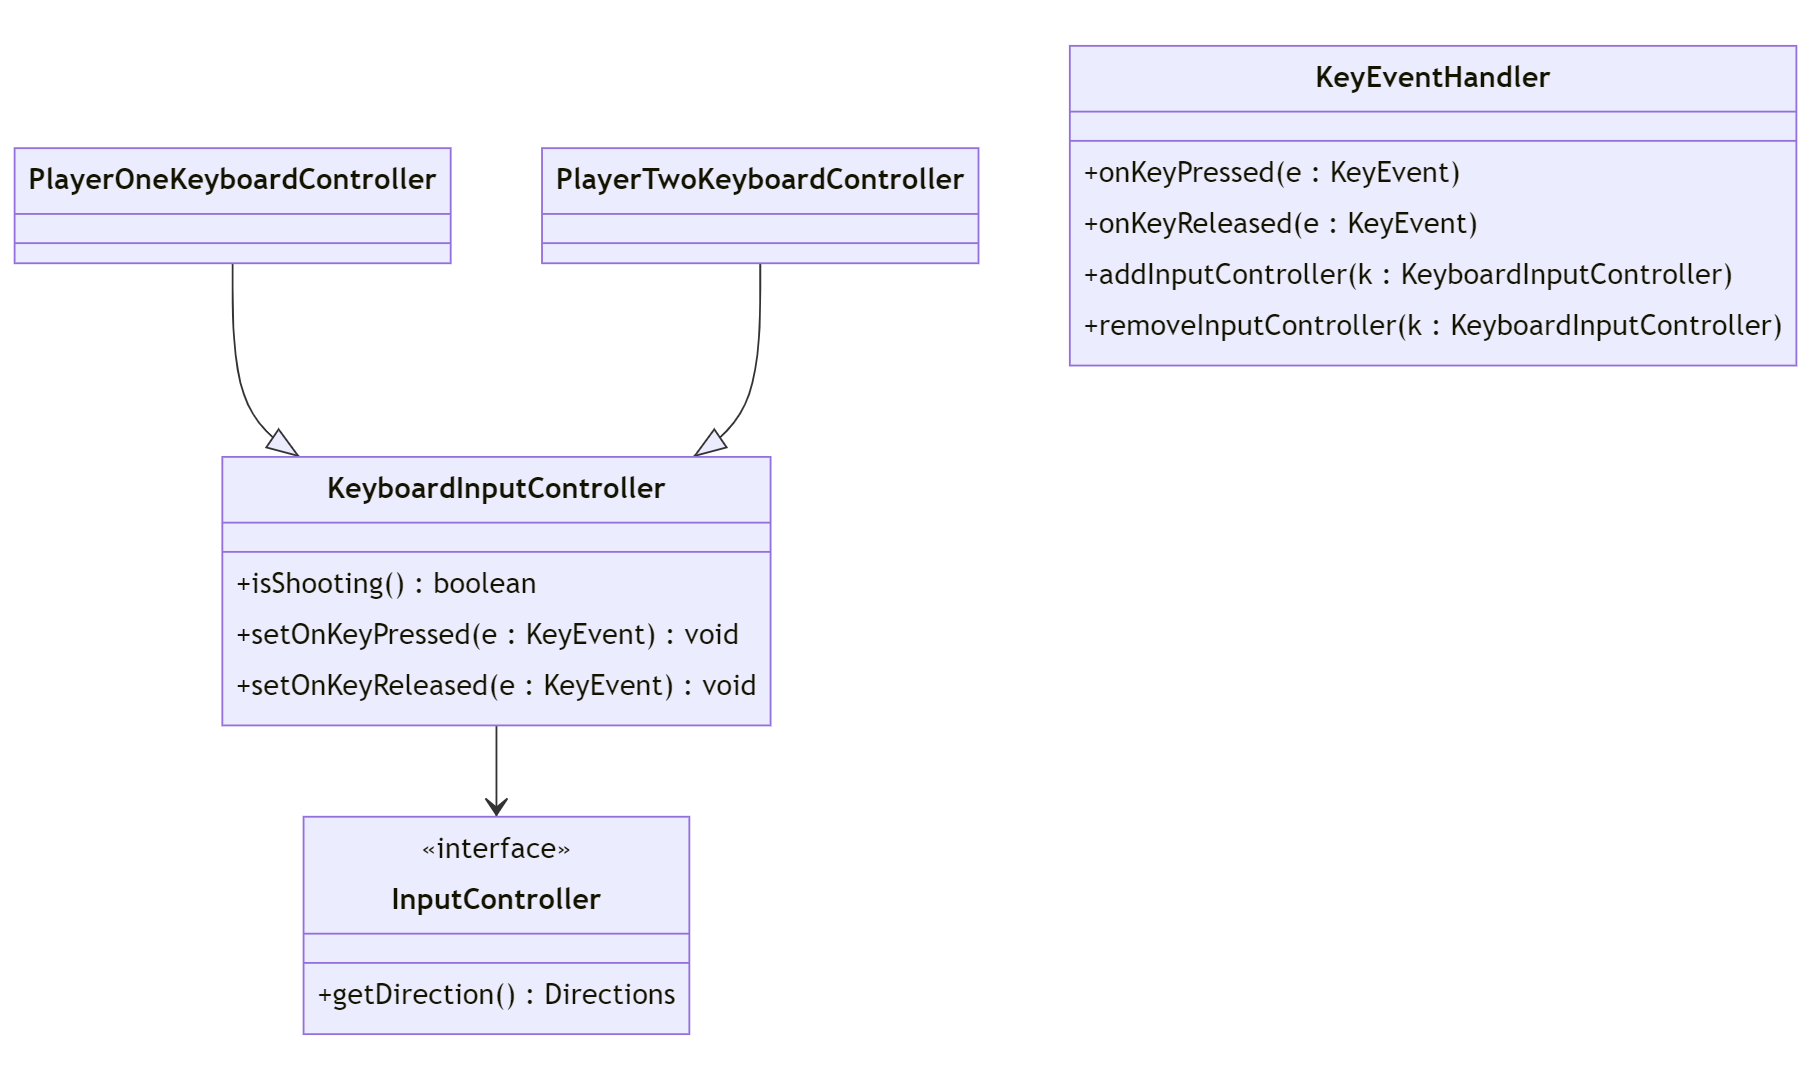
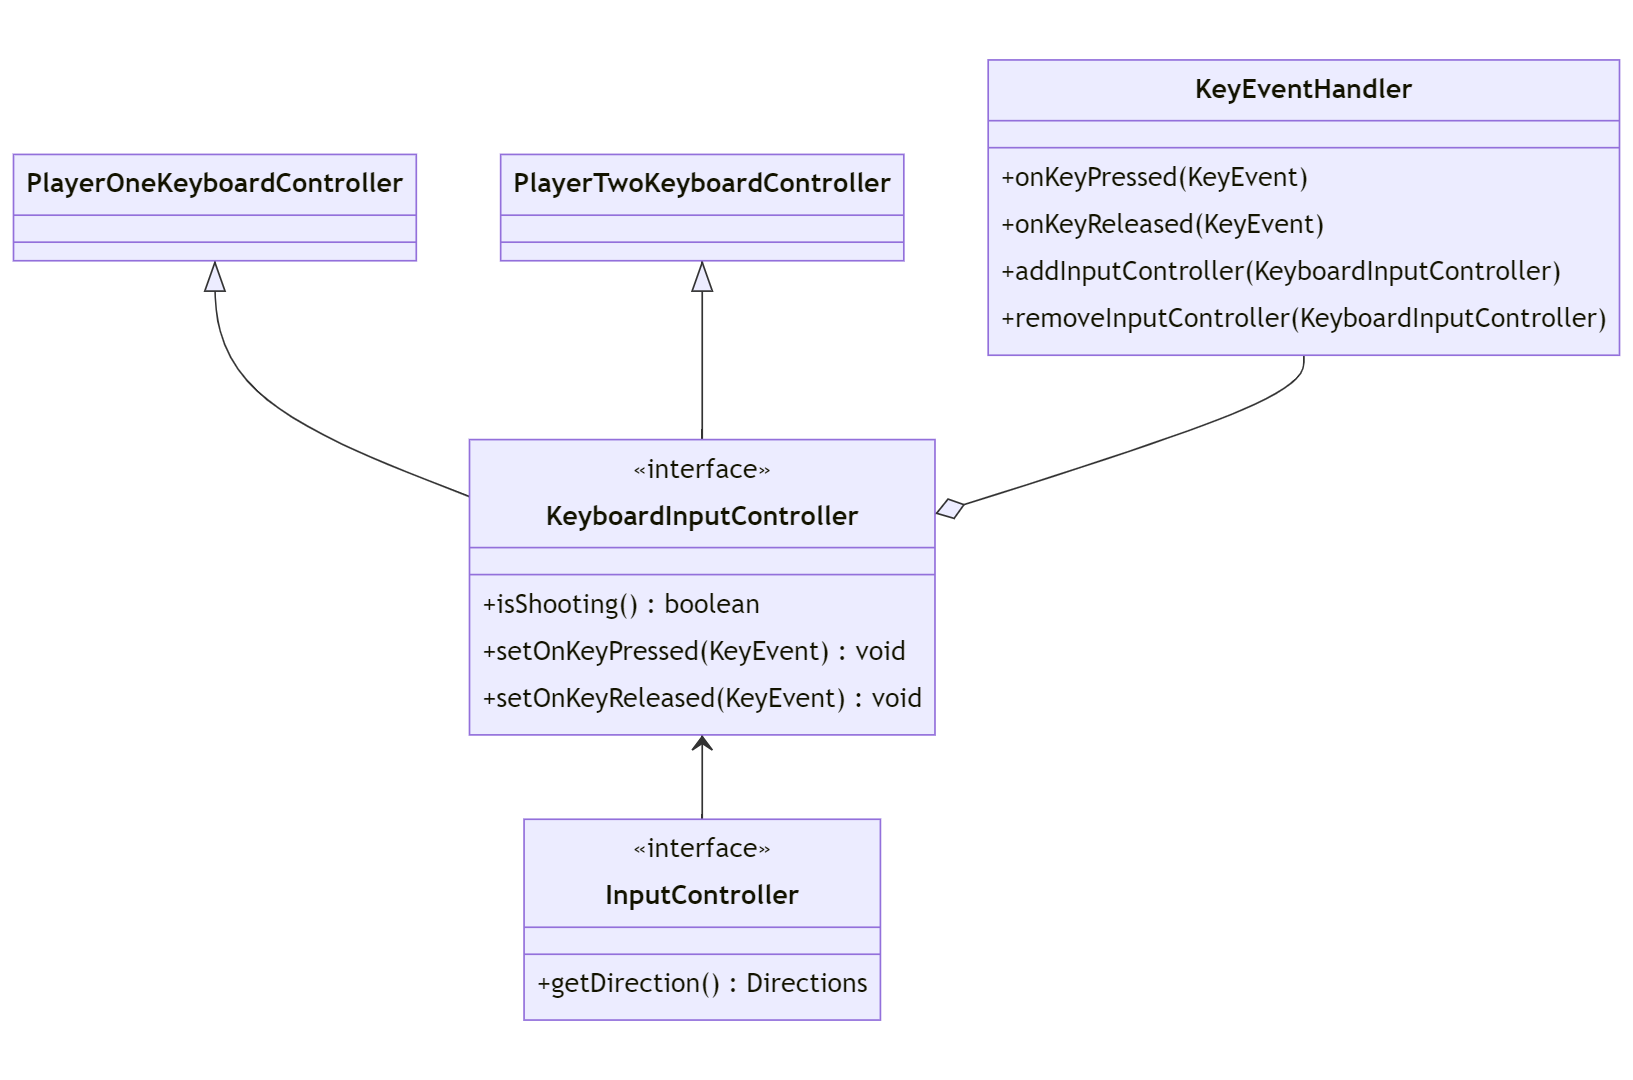
fixed umls

diff --git a/report/mermaid_diagrams/Input_Analysis.md b/report/mermaid_diagrams/Input_Analysis.md
@@ -1,9 +1,9 @@
 classDiagram
 
-KeyboardInputController --> InputController
-PlayerOneKeyboardController --|> KeyboardInputController
-PlayerTwoKeyboardController --|> KeyboardInputController
-KeyEventHandler
+KeyboardInputController <-- InputController
+PlayerOneKeyboardController <|-- KeyboardInputController
+PlayerTwoKeyboardController <|-- KeyboardInputController
+KeyEventHandler --o KeyboardInputController
 
 class InputController {
     <<interface>>
@@ -11,9 +11,10 @@ class InputController {
 }
 
 class KeyboardInputController {
+    <<interface>>
     +isShooting() : boolean
-    +setOnKeyPressed(e : KeyEvent) : void
-    +setOnKeyReleased(e : KeyEvent) : void
+    +setOnKeyPressed(KeyEvent) : void
+    +setOnKeyReleased(KeyEvent) : void
 }
 
 class PlayerOneKeyboardController {
@@ -25,8 +26,8 @@ class PlayerTwoKeyboardController {
 }
 
 class KeyEventHandler {
-    +onKeyPressed(e : KeyEvent)
-    +onKeyReleased(e : KeyEvent)
-    +addInputController(k : KeyboardInputController)
-    +removeInputController(k : KeyboardInputController)
+    +onKeyPressed(KeyEvent)
+    +onKeyReleased(KeyEvent)
+    +addInputController(KeyboardInputController)
+    +removeInputController(KeyboardInputController)
 }

diff --git a/report/mermaid_diagrams/Health_Analysis.md b/report/mermaid_diagrams/Health_Analysis.md
@@ -1,12 +1,12 @@
 classDiagram
 
-AbstractComponent --|> Component
-NotifiableComponent --> Component
-AbstractHealthComponent --> AbstractComponent
-AbstractHealthComponent --|> NotifiableComponent
-BulletHealthComponent --|> AbstractHealthComponent
-EntitiesHealthComponent--|> AbstractHealthComponent
-TemporaryHealthComponent --|> AbstractHealthComponent
+AbstractComponent <|-- Component
+NotifiableComponent <-- Component
+AbstractHealthComponent <-- AbstractComponent
+AbstractHealthComponent <|-- NotifiableComponent
+BulletHealthComponent <|-- AbstractHealthComponent
+EntitiesHealthComponent<|-- AbstractHealthComponent
+TemporaryHealthComponent <|-- AbstractHealthComponent
 
 class Component {
     <<interface>>
@@ -21,13 +21,13 @@ class AbstractComponent {
 
 class NotifiableComponent {
     <<interface>>
-    +receive(x : Message<X>) : void
+    +receive(Message~X~) : void
 }
 
 class AbstractHealthComponent {
     <<abstract>>
     +getHealth() : int
-    +setHealth(health : int) : void
+    +setHealth(int) : void
     #isTouchable() : boolean
 }
 
